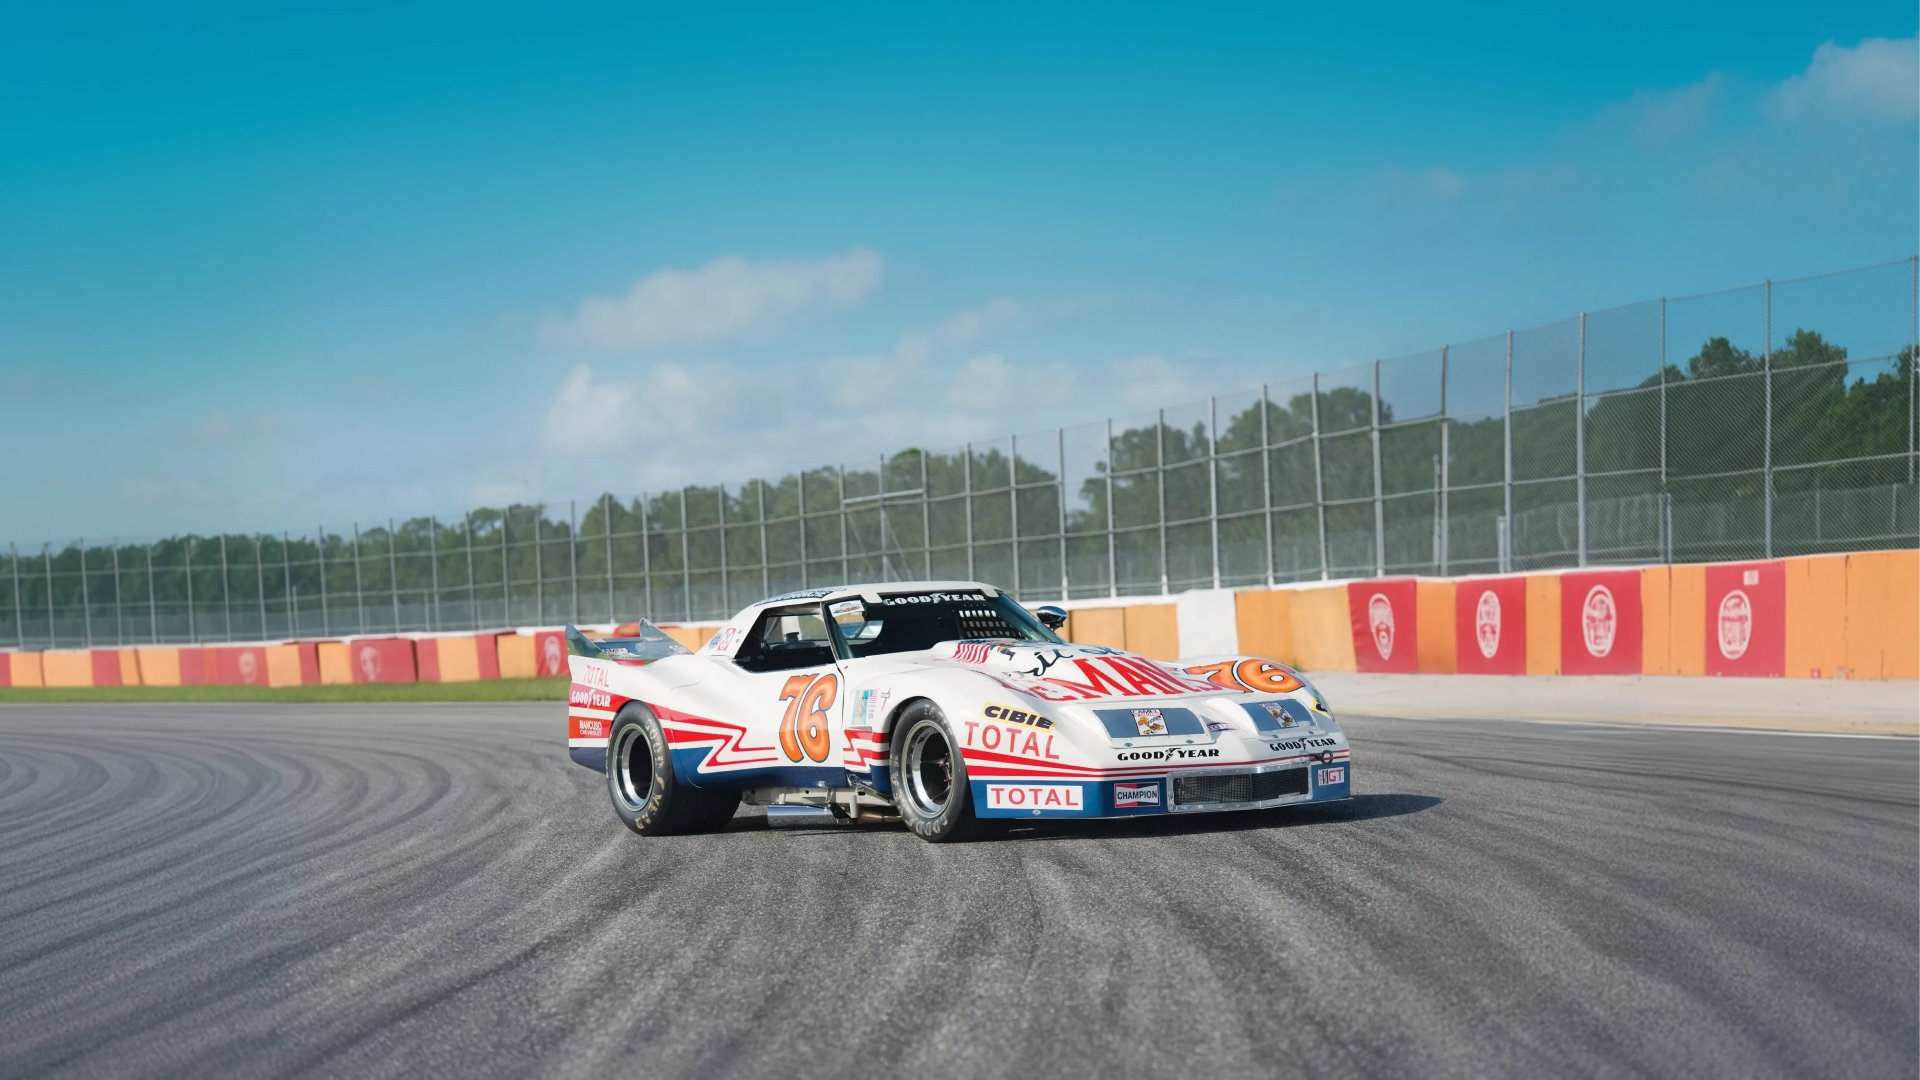
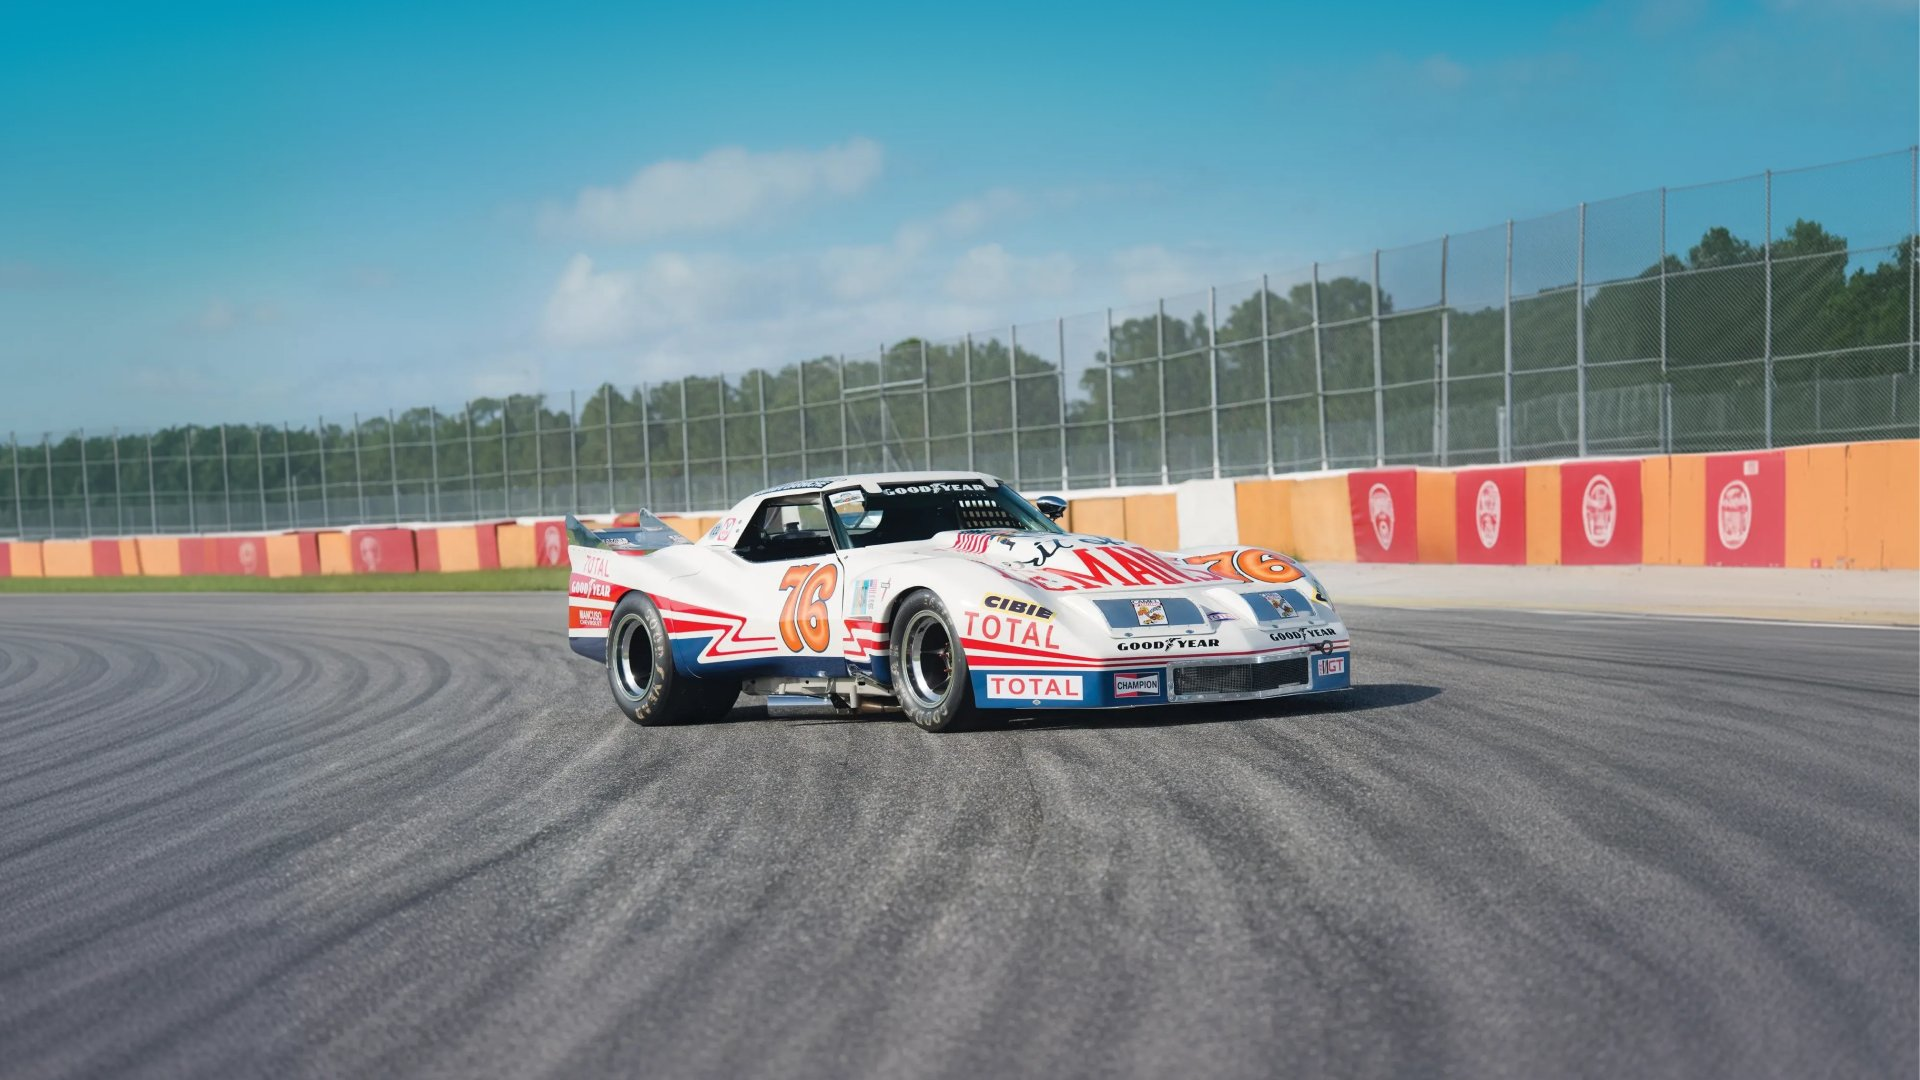
Final sketch: Le Mans film blurs and dims as the camera closes in, chapter text overlaps it darkened; new centre image, title lowered

diff --git a/sketches/final/styles.css b/sketches/final/styles.css
@@ -256,13 +256,13 @@ ol, ul { margin: 0; padding: 0; list-style: none; }
 /* ---------------------------------------------------------------- full-bleed photographs with text in their empty side */
 .bleed { position: relative; z-index: 2; height: 100vh; min-height: 560px; overflow: hidden; background: var(--ground); }
 .bleed img { width: 100%; height: 100%; object-fit: cover; }
-.bleed--center img { object-position: 50% 70%; }
+.bleed--center img { object-position: 50% 62%; }
 /* the blue of the #76 page runs on into the sky */
 .bleed--center::before { content: ""; position: absolute; inset: 0 0 auto; height: 55%; z-index: 1; pointer-events: none;
   background: linear-gradient(180deg, #a9d9ee 0%, rgba(169,217,238,.85) 22%, rgba(169,217,238,.35) 60%, rgba(169,217,238,0) 100%); }
 .bleed--left img { object-position: 70% 50%; }
 .bleed__text { position: absolute; z-index: 2; display: grid; gap: var(--s-3); color: #fff; text-shadow: 0 1px 24px rgba(0,0,0,.25); }
-.bleed--center .bleed__text { left: 0; right: 0; top: 12vh; text-align: center; color: var(--navy); text-shadow: none; }
+.bleed--center .bleed__text { left: 0; right: 0; top: 22vh; text-align: center; color: var(--navy); text-shadow: none; }
 .bleed--left .bleed__text { left: calc(var(--gutter) + var(--col) * .5); top: 16vh; }
 .bleed--left::before { content: ""; position: absolute; inset: 0; z-index: 1; background: linear-gradient(90deg, rgba(11,12,13,.7) 0%, rgba(11,12,13,.25) 38%, rgba(11,12,13,0) 55%); }
 .bleed__eyebrow { font-size: var(--t-caption); font-weight: 600; letter-spacing: .16em; text-transform: uppercase; }
@@ -296,7 +296,8 @@ ol, ul { margin: 0; padding: 0; list-style: none; }
 .fact p { position: absolute; left: var(--s-3); top: 0; width: 200px; font-size: 15px; line-height: 1.45; color: var(--ink); text-shadow: 0 1px 2px rgba(0,0,0,.9), 0 0 18px rgba(0,0,0,.8); }
 .fact b { display: block; margin-bottom: 2px; font-size: 16px; font-weight: 600; letter-spacing: .04em; color: var(--ink); }
 
-.lm__text { padding: var(--s-8) calc(var(--gutter) + var(--col)) 0; display: grid; gap: var(--s-6); }
+.lm__text { position: relative; z-index: 3; margin-top: -24vh; padding: calc(24vh + var(--s-6)) calc(var(--gutter) + var(--col)) 0; display: grid; gap: var(--s-6);
+  background: linear-gradient(180deg, rgba(5,5,5,0) 0%, rgba(5,5,5,.85) 12vh, #050505 24vh); }
 .lm__eyebrow { color: var(--mute); }
 .lm__grid { display: grid; grid-template-columns: repeat(11, 1fr); column-gap: var(--s-5); align-items: start; }
 .lm__num { grid-column: 1 / span 1; font-family: var(--serif); font-size: clamp(64px, 6vw, 104px); line-height: .8; color: var(--ink); }

diff --git a/sketches/final/index.html b/sketches/final/index.html
@@ -12,7 +12,7 @@
 <link rel="stylesheet" href="https://unpkg.com/lenis@1.3.26/dist/lenis.css">
 <link rel="preload" as="image" href="../../assets/img/hero-lemans-1976-2400.jpg" media="(min-width: 700px)">
 <link rel="preload" as="image" href="../../assets/img/hero-lemans-1976-mobile.jpg" media="(max-width: 699px)">
-<link rel="stylesheet" href="styles.css?v=20">
+<link rel="stylesheet" href="styles.css?v=22">
 <script>document.documentElement.classList.add('js');</script>
 </head>
 <body>
@@ -182,7 +182,7 @@ The spine: a dashed road centre-line runs down the whole history; scroll fills i
 
   <!-- full-bleed release into Le Mans: the car centred, open sky either side -->
   <figure class="bleed bleed--center" data-bleed data-bleed-pin>
-    <img src="../../assets/img/final/spirit-today-center.jpg" width="1920" height="1080" loading="lazy"
+    <img src="../../assets/img/final/spirit-today-center.jpg?v=2" width="1920" height="1080" loading="lazy"
          alt="The white Spirit of Le Mans 76 Corvette, red, white and blue, on an empty circuit under a blue sky.">
     <figcaption class="bleed__text" data-bleed-text>
       <span class="bleed__eyebrow">Next</span>
@@ -319,6 +319,6 @@ No car shown: no photograph or render of the GT has been released. -->
 <script src="https://cdnjs.cloudflare.com/ajax/libs/gsap/3.15.0/gsap.min.js"></script>
 <script src="https://cdnjs.cloudflare.com/ajax/libs/gsap/3.15.0/ScrollTrigger.min.js"></script>
 <script src="https://unpkg.com/lenis@1.3.26/dist/lenis.min.js"></script>
-<script src="motion.js?v=12"></script>
+<script src="motion.js?v=13"></script>
 </body>
 </html>

diff --git a/sketches/final/motion.js b/sketches/final/motion.js
@@ -109,10 +109,12 @@
       if (Math.abs(vid.currentTime - want) > 0.02 && !vid.seeking) vid.currentTime = want; }); }
 
     /* Le Mans: the lines climb out of the smoke one after another, the facts arrive at their tips */
-    const lm = gsap.timeline({ scrollTrigger: { trigger: '[data-lm-scene]', start: 'top top', end: '+=90%', pin: true, scrub: 0.6, anticipatePin: 1 } });
+    const lm = gsap.timeline({ scrollTrigger: { trigger: '[data-lm-scene]', start: 'top top', end: '+=140%', pin: true, scrub: 0.6, anticipatePin: 1 } });
     lm.from('.fact__line', { scaleY: 0, transformOrigin: 'bottom center', stagger: 0.12, ease: 'power2.out' }, 0)
       .from('.fact p', { autoAlpha: 0, y: 8, stagger: 0.12, ease: 'power2.out' }, 0.25)
-      .to(lmScrub, { t: 1, ease: 'none', duration: 1.2 }, 0);
+      .to(lmScrub, { t: 1, ease: 'none', duration: 1.2 }, 0)
+      /* as the camera closes in, the film softens and dims so the facts stay readable */
+      .fromTo('[data-lm-video]', { filter: 'blur(0px) brightness(1)' }, { filter: 'blur(7px) brightness(0.42)', ease: 'power1.in', duration: 0.7 }, 0.75);
 
     qa('[data-ghost]').forEach((g) => gsap.fromTo(g, { yPercent: -12 }, {
       yPercent: 12, ease: 'none', scrollTrigger: { trigger: g.parentElement, start: 'top bottom', end: 'bottom top', scrub: true },
